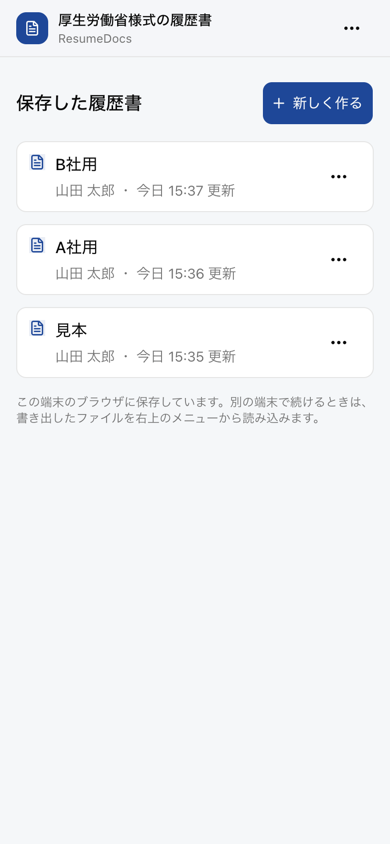
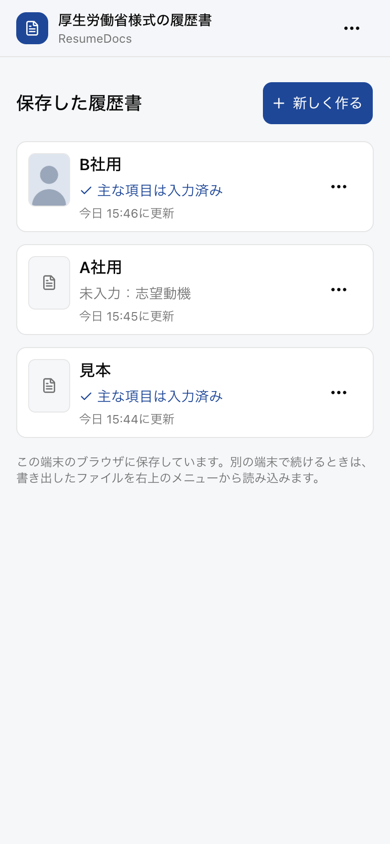
Make the saved resume cards easier to tell apart
- Each card leads with a frame shaped like the photo box, showing
  the photo when there is one
- The second line says what is still missing ("未入力：志望動機") or
  that the main sections are filled, using the same checks as the
  editor's section headers (moved to lib/resume)
- The update time moves to a small third line; the name is dropped,
  since it was the same on every card

Changed region(s): [[0.0308, 0.1848, 0.9231, 0.5853], [0.0615, 0.3697, 0.1231, 0.4005]]

diff --git a/web/src/components/resume-list.tsx b/web/src/components/resume-list.tsx
@@ -3,7 +3,8 @@
 import { useRef, useState, useSyncExternalStore } from "react";
 import Link from "next/link";
 import { useRouter } from "next/navigation";
-import { Copy, FileText, FolderOpen, MoreHorizontal, Pencil, Plus, Sparkles, Trash2 } from "lucide-react";
+import { Check, Copy, FileText, FolderOpen, MoreHorizontal, Pencil, Plus, Sparkles, Trash2 } from "lucide-react";
+import { cn } from "cn";
 import { toast } from "sonner";
 import {
   AlertDialog,
@@ -22,7 +23,7 @@ import { Item, ItemActions, ItemContent, ItemDescription, ItemGroup, ItemMedia, 
 import { Skeleton } from "@/components/ui/skeleton";
 import { RenameSheet } from "@/components/rename-sheet";
 import { Brand } from "@/components/site";
-import { SAMPLE, toResume, type Resume } from "@/lib/resume";
+import { SAMPLE, sectionStatus, toResume, type Resume } from "@/lib/resume";
 import { createResume, deleteResume, duplicateResume, editHref, getResume, useResumeList, type Saved } from "@/lib/store";
 
 // 保存内容はブラウザにしかないので、読み込むまで一覧を出さない（空の案内のちらつき防止）
@@ -37,15 +38,32 @@ function updatedLabel(time: number) {
   return d.getFullYear() === now.getFullYear() ? md : `${d.getFullYear()}年${md}`;
 }
 
+// 一覧に「あと何を書けばいいか」を出す項目（資格は無い人もいるので数えない）
+const SECTIONS = [
+  ["basic", "基本情報"],
+  ["address", "現住所"],
+  ["history", "学歴・職歴"],
+  ["motivation", "志望動機"],
+] as const;
+
 function ResumeCard({ saved, onRename, onDelete }: { saved: Saved; onRename: () => void; onDelete: () => void }) {
-  const name = getResume(saved.id).profile.name;
+  const resume = getResume(saved.id);
+  const status = sectionStatus(resume);
+  const missing = SECTIONS.filter(([key]) => !status[key]).map(([, label]) => label);
   return (
     <Item variant="outline" className="relative bg-card hover:bg-muted/60">
-      <ItemMedia variant="icon" className="border-transparent bg-primary/10 text-primary">
-        <FileText />
+      {/* 写真欄と同じ縦横比の枠。写真があれば写真、なければ書類の印 */}
+      <ItemMedia variant="image" className="aspect-[30.2/38.7] h-auto w-10 rounded-sm bg-background text-muted-foreground ring-1 ring-foreground/10">
+        {resume.photo ? (
+          // data URL の写真なので next/image の最適化は使えない
+          // eslint-disable-next-line @next/next/no-img-element
+          <img src={resume.photo} alt="" />
+        ) : (
+          <FileText className="size-4" aria-hidden />
+        )}
       </ItemMedia>
       <ItemContent className="wrap-anywhere">
-        <ItemTitle className="text-base sm:text-sm">
+        <ItemTitle className="text-base font-semibold sm:text-sm">
           {/* リンクの押せる範囲をカード全体に広げる */}
           <Link
             href={editHref(saved.id)}
@@ -54,9 +72,20 @@ function ResumeCard({ saved, onRename, onDelete }: { saved: Saved; onRename: () 
             {saved.title}
           </Link>
         </ItemTitle>
-        <ItemDescription>
-          {name || "氏名未入力"} ・ {updatedLabel(saved.updatedAt)} 更新
+        {/* 見分けに役立つ入力の状況を先に、更新日時は小さく */}
+        <ItemDescription className={cn(missing.length === 0 && "text-primary")}>
+          {missing.length === 0 ? (
+            <>
+              <Check className="mr-1 inline size-3.5 align-[-2px]" aria-hidden />
+              主な項目は入力済み
+            </>
+          ) : missing.length === SECTIONS.length ? (
+            "まだ入力していません"
+          ) : (
+            `未入力：${missing.join("・")}`
+          )}
         </ItemDescription>
+        <p className="text-xs text-muted-foreground">{updatedLabel(saved.updatedAt)}に更新</p>
       </ItemContent>
       <ItemActions className="relative z-10">
         <DropdownMenu>

diff --git a/web/src/components/resume-form.tsx b/web/src/components/resume-form.tsx
@@ -19,7 +19,7 @@ import { EmailField } from "@/components/email-field";
 import { GenderField } from "@/components/gender-field";
 import { PhotoField } from "@/components/photo-field";
 import { YearMonth } from "@/components/year-month";
-import { blankEntry, blankJob, byDate, formatYm, type Address, type Counts, type Layout, type Resume } from "@/lib/resume";
+import { blankEntry, blankJob, byDate, formatYm, has, sectionStatus, type Address, type Counts, type Layout } from "@/lib/resume";
 import { updateResume, useResume } from "@/lib/store";
 
 // 入力欄の高さと文字サイズは components/ui 側でそろえる（スマホ 44px・16px／PC 36px・14px）
@@ -265,20 +265,6 @@ function JobList() {
       )}
     </div>
   );
-}
-
-const has = (s: string) => s.trim().length > 0;
-
-/** 各項目の主な欄が埋まっているか（目安。保存は止めない） */
-function sectionStatus(r: Resume) {
-  const p = r.profile;
-  return {
-    basic: has(p.name) && has(p.kana) && has(p.birth),
-    address: has(p.postal) && has(p.address) && has(p.phone),
-    history: r.education.some((x) => has(x.text)),
-    licenses: r.licenses.some((x) => has(x.text)),
-    motivation: has(r.resume.motivation),
-  };
 }
 
 /** 閉じていても中身が分かるよう、見出しの下に要約を出す */

diff --git a/web/src/lib/resume.ts b/web/src/lib/resume.ts
@@ -51,6 +51,20 @@ export const SAMPLE: Resume = {
   resume: { motivation: "志望動機・自己PRをここに書く。\n改行はそのまま反映される。", request: "貴社規定に従います。" },
 };
 
+export const has = (s: string) => s.trim().length > 0;
+
+/** 各項目の主な欄が埋まっているか（目安。保存は止めない。入力画面と一覧で使う） */
+export function sectionStatus(r: Resume) {
+  const p = r.profile;
+  return {
+    basic: has(p.name) && has(p.kana) && has(p.birth),
+    address: has(p.postal) && has(p.address) && has(p.phone),
+    history: r.education.some((x) => has(x.text)),
+    licenses: r.licenses.some((x) => has(x.text)),
+    motivation: has(r.resume.motivation),
+  };
+}
+
 /** 読み込んだデータ（古い形式や欠けたものを含む）を、すべての項目がそろった Resume にする */
 export function toResume(data: unknown): Resume {
   const e = emptyResume();
